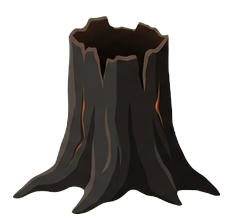
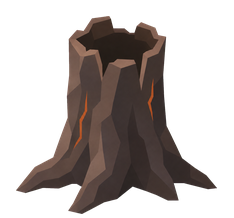
feat(art): 차원문 전투 그루터기에 컷페이퍼 아트 적용

Changed region(s): [[0.0598, 0.055, 0.9573, 0.9908]]

diff --git a/.art/PRODUCTION-STATUS.md b/.art/PRODUCTION-STATUS.md
@@ -209,7 +209,7 @@
 | `Background/Gate/background.png` | 클라이언트 PR (이슈 #510) | **플레이 검수 대기.** 차원문 5·6단계 지도와 같은 무광 암반 면을 적용하고 어두운 균열의 밀도를 줄였다. 1254×1254 RGB와 Repeat 임포트 설정을 유지했다. 양쪽 가장자리의 RGB 값이 행·열 단위로 일치하며 2×2 반복 위에 차원문 유닛 4종을 합성해 확인했다. |
 | `Background/Gate/tree_1.png` | 클라이언트 PR (이슈 #235) | **검수 대기, 자리표시 아트.** 차원문 모험(adventure 3) 전투 배경 theme 의 새 파일(`Background/Fortress/tree_1.png` 와 같은 이름·크기). 277x242 RGBA, 꺾인 탄 줄기. `GateBattleTheme.asset` 이 참조하고 `GateAdventure.asset` 의 `battleTheme` 이 이 asset 을 가리킨다. `agy` 생성, 초록 배경 key 제거. Editor 미검증 |
 | `Background/Gate/tree_2.png` | 클라이언트 PR (이슈 #235) | **검수 대기, 자리표시 아트.** 차원문 모험(adventure 3) 전투 배경 theme 의 새 파일(`Background/Fortress/tree_2.png` 와 같은 이름·크기). 265x222 RGBA, 가지 둘 달린 탄 줄기. `GateBattleTheme.asset` 이 참조하고 `GateAdventure.asset` 의 `battleTheme` 이 이 asset 을 가리킨다. `agy` 생성, 초록 배경 key 제거. Editor 미검증 |
-| `Background/Gate/tree_3.png` | 클라이언트 PR (이슈 #235) | **검수 대기, 자리표시 아트.** 차원문 모험(adventure 3) 전투 배경 theme 의 새 파일(`Background/Fortress/tree_3.png` 와 같은 이름·크기). 234x218 RGBA, 속이 빈 탄 그루터기. `GateBattleTheme.asset` 이 참조하고 `GateAdventure.asset` 의 `battleTheme` 이 이 asset 을 가리킨다. `agy` 생성, 초록 배경 key 제거. Editor 미검증 |
+| `Background/Gate/tree_3.png` | 클라이언트 PR (이슈 #515) | **실제 경기 검수 대기.** 차원문 6단계 지도와 맞춘 무광 그루터기다. 열린 윗부분과 돌출된 뿌리, 어두운 주황 균열을 남겼다. 234×218, PPU 100, 하단 중앙 피벗. 알파 바닥선은 기존과 같고 외곽 폭은 207px에서 201px로 줄었다. |
 | `Background/Gate/tree_4.png` | 클라이언트 PR (이슈 #235) | **검수 대기, 자리표시 아트.** 차원문 모험(adventure 3) 전투 배경 theme 의 새 파일(`Background/Fortress/tree_4.png` 와 같은 이름·크기). 328x264 RGBA, 굽은 가지가 달린 굵은 탄 줄기. `GateBattleTheme.asset` 이 참조하고 `GateAdventure.asset` 의 `battleTheme` 이 이 asset 을 가리킨다. `agy` 생성, 초록 배경 key 제거. Editor 미검증 |
 | `Background/Gate/rock.png` | 클라이언트 PR (이슈 #235) | **검수 대기, 자리표시 아트.** 차원문 모험(adventure 3) 전투 배경 theme 의 새 파일(`Background/Fortress/rock.png` 와 같은 이름·크기). 452x166 RGBA, 불씨 금이 간 현무암 더미. `GateBattleTheme.asset` 이 참조하고 `GateAdventure.asset` 의 `battleTheme` 이 이 asset 을 가리킨다. `agy` 생성, 초록 배경 key 제거. Editor 미검증 |
 | `Background/Gate/grass_1.png` | 클라이언트 PR (이슈 #235) | **검수 대기, 자리표시 아트.** 차원문 모험(adventure 3) 전투 배경 theme 의 새 파일(`Background/Fortress/grass_1.png` 와 같은 이름·크기). 238x117 RGBA, 마른 재색 풀 한 포기와 불씨 둘. `GateBattleTheme.asset` 이 참조하고 `GateAdventure.asset` 의 `battleTheme` 이 이 asset 을 가리킨다. `agy` 생성, 초록 배경 key 제거. Editor 미검증 |
